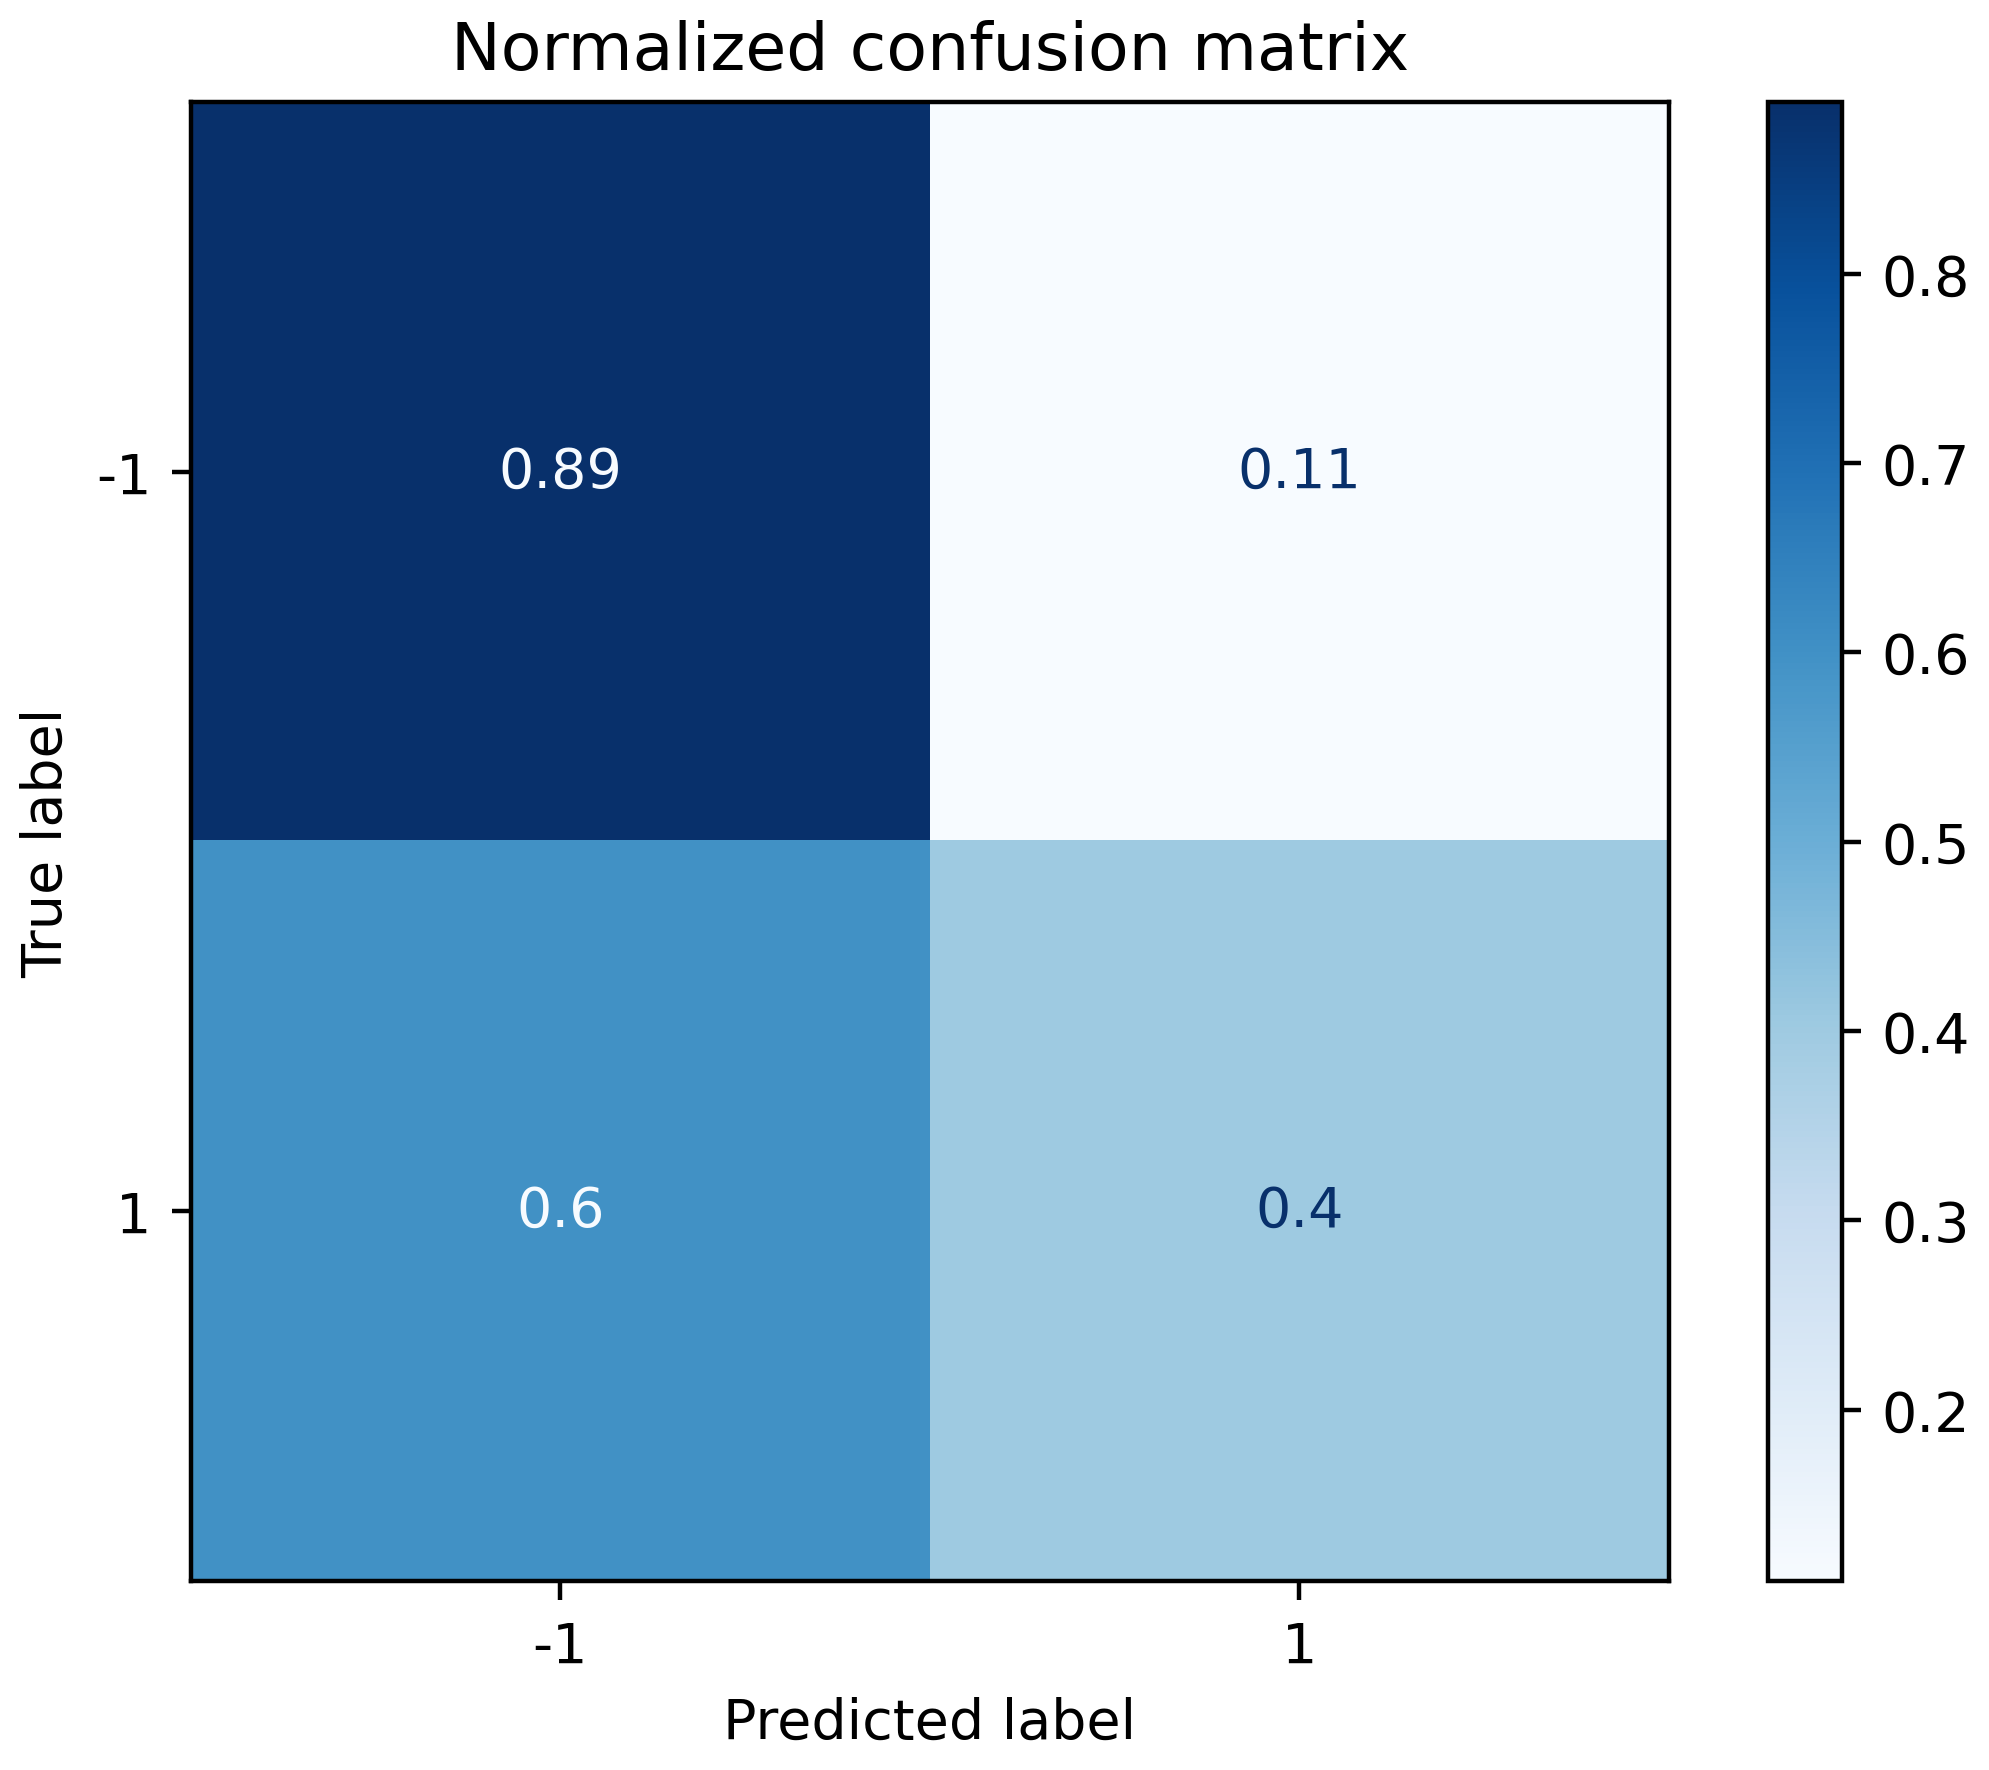
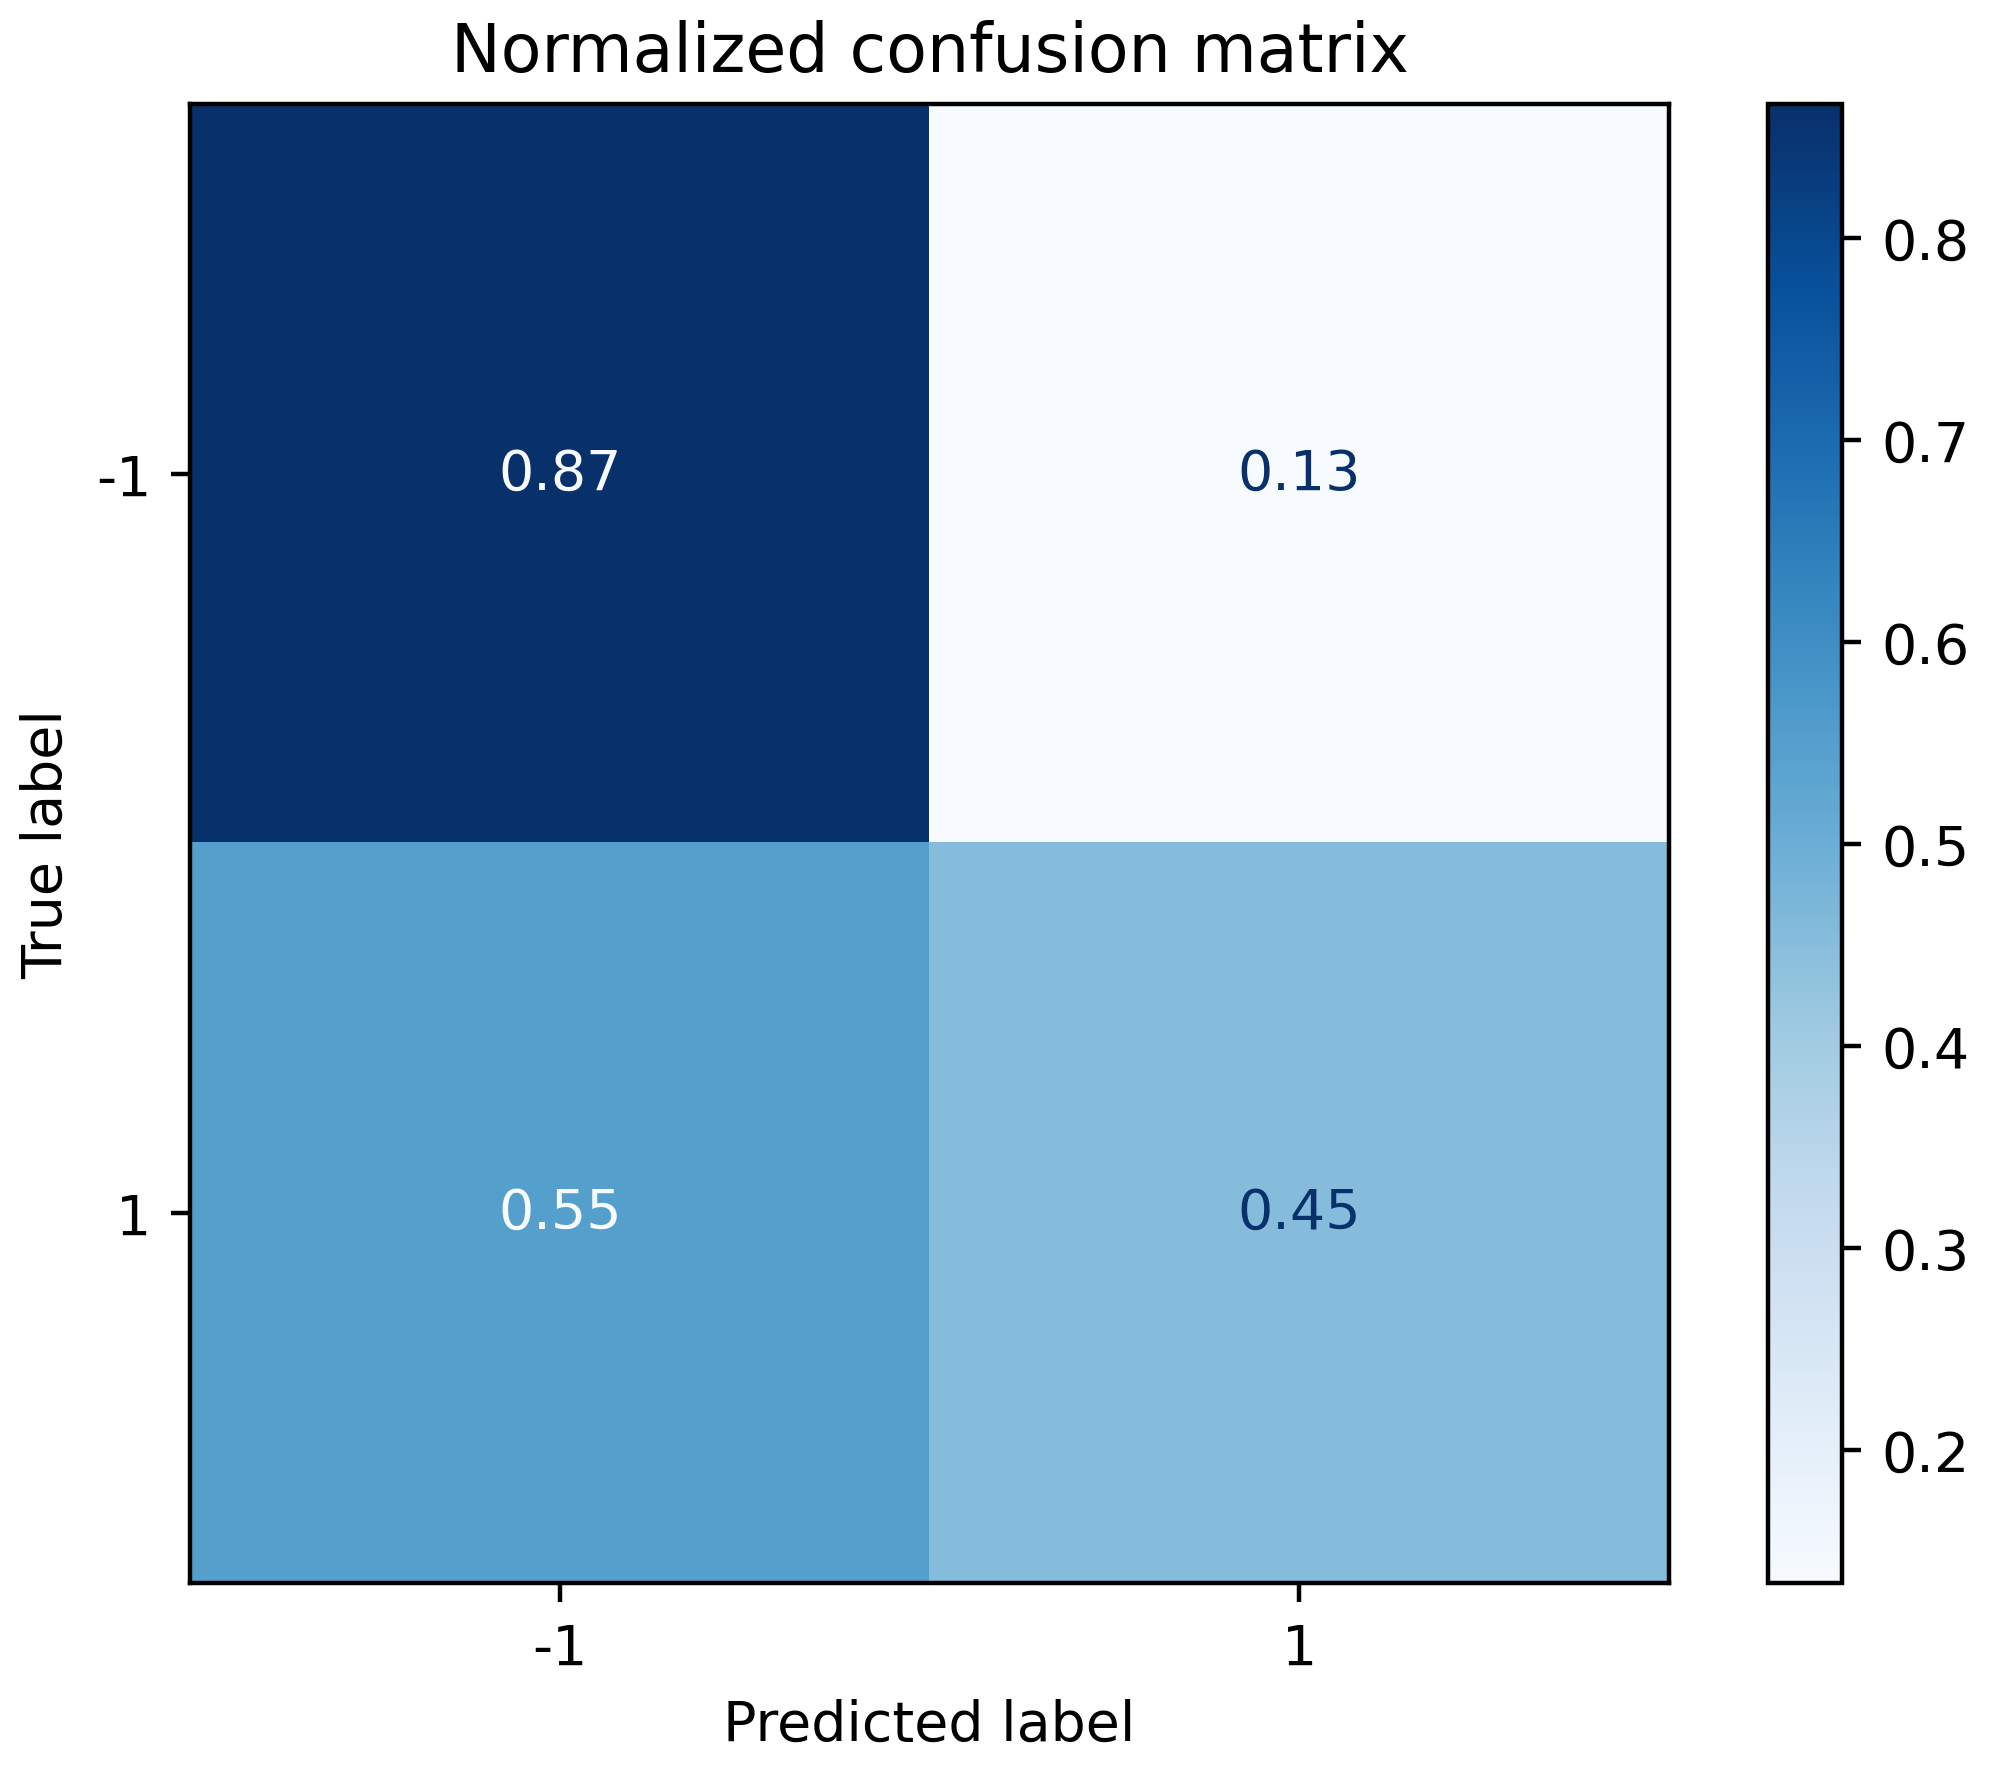
update result

diff --git a/LR_test.py b/LR_test.py
@@ -60,7 +60,7 @@ print_report(lg, x_test, y_test, "train", "lg-best", )
 
 x_test, y_test = split_xy(test_data_)
 print_report(lg, x_test, y_test, "test", "lg-best")
-print_latex(lg, x_test, y_test)
+print_latex(lg, x_test, y_test, "LR")
 """
 --------------------train@lg-best--------------------
               precision    recall  f1-score   support
@@ -96,5 +96,5 @@ for title, file_name, normalize in titles_options:
 
     print(title)
     print(disp.confusion_matrix)
-    plt.savefig(f'lg_{file_name}', bbox_inches='tight', dpi=400, pad_inches=0.05)
+    plt.savefig(f'LR_{file_name}', bbox_inches='tight', dpi=400, pad_inches=0.05)
 

diff --git a/LinearSVC.tex b/LinearSVC.tex
@@ -1,0 +1,12 @@
+\begin{table}[!h]
+    \centering
+    \renewcommand{\arraystretch}{1.5}
+    \begin{tabular}{|r|c|c|c|}
+        \hline
+                  & Precision & Recall & F1-score \\ \hline
+        -1        &     0.96357     &     0.86598   &    0.91218      \\ \hline
+        1         &     0.16825      &     0.45299   &   0.24537       \\ \hline
+        macro avg &      0.56591     &     0.65949   &    0.57877      \\ \hline
+    \end{tabular}
+    \caption{LinearSVC}
+\end{table}

diff --git a/svm.tex b/svm.tex
@@ -1,0 +1,12 @@
+\begin{table}[!h]
+    \centering
+    \renewcommand{\arraystretch}{1.5}
+    \begin{tabular}{|r|c|c|c|}
+        \hline
+                  & Precision & Recall & F1-score \\ \hline
+        -1        &     0.97051     &     0.75754   &    0.85090      \\ \hline
+        1         &     0.13187      &     0.61538   &   0.21719       \\ \hline
+        macro avg &      0.55119     &     0.68646   &    0.53405      \\ \hline
+    \end{tabular}
+    \caption{svm}
+\end{table}

diff --git a/LR.tex b/LR.tex
@@ -1,0 +1,12 @@
+\begin{table}[!h]
+    \centering
+    \renewcommand{\arraystretch}{1.5}
+    \begin{tabular}{|r|c|c|c|}
+        \hline
+                  & Precision & Recall & F1-score \\ \hline
+        -1        &     0.97051     &     0.77442   &    0.86145      \\ \hline
+        1         &     0.13867      &     0.60684   &   0.22576       \\ \hline
+        macro avg &      0.55459     &     0.69063   &    0.54360      \\ \hline
+    \end{tabular}
+    \caption{LR}
+\end{table}
